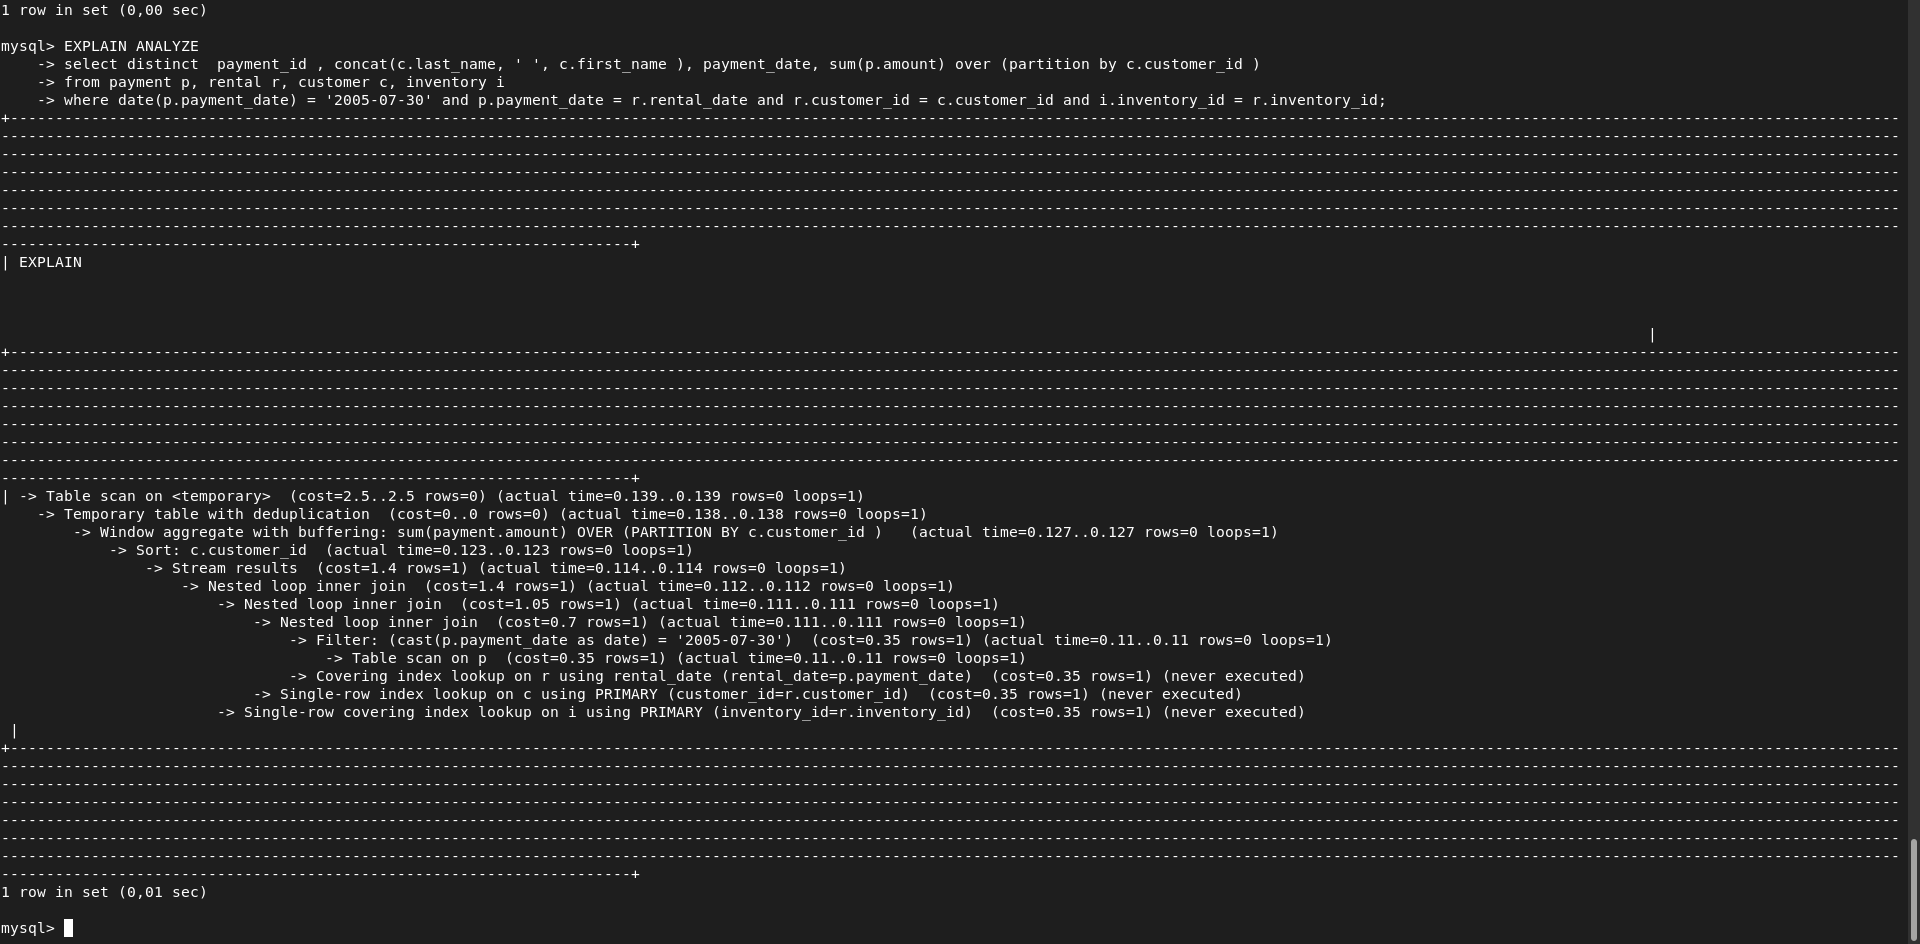
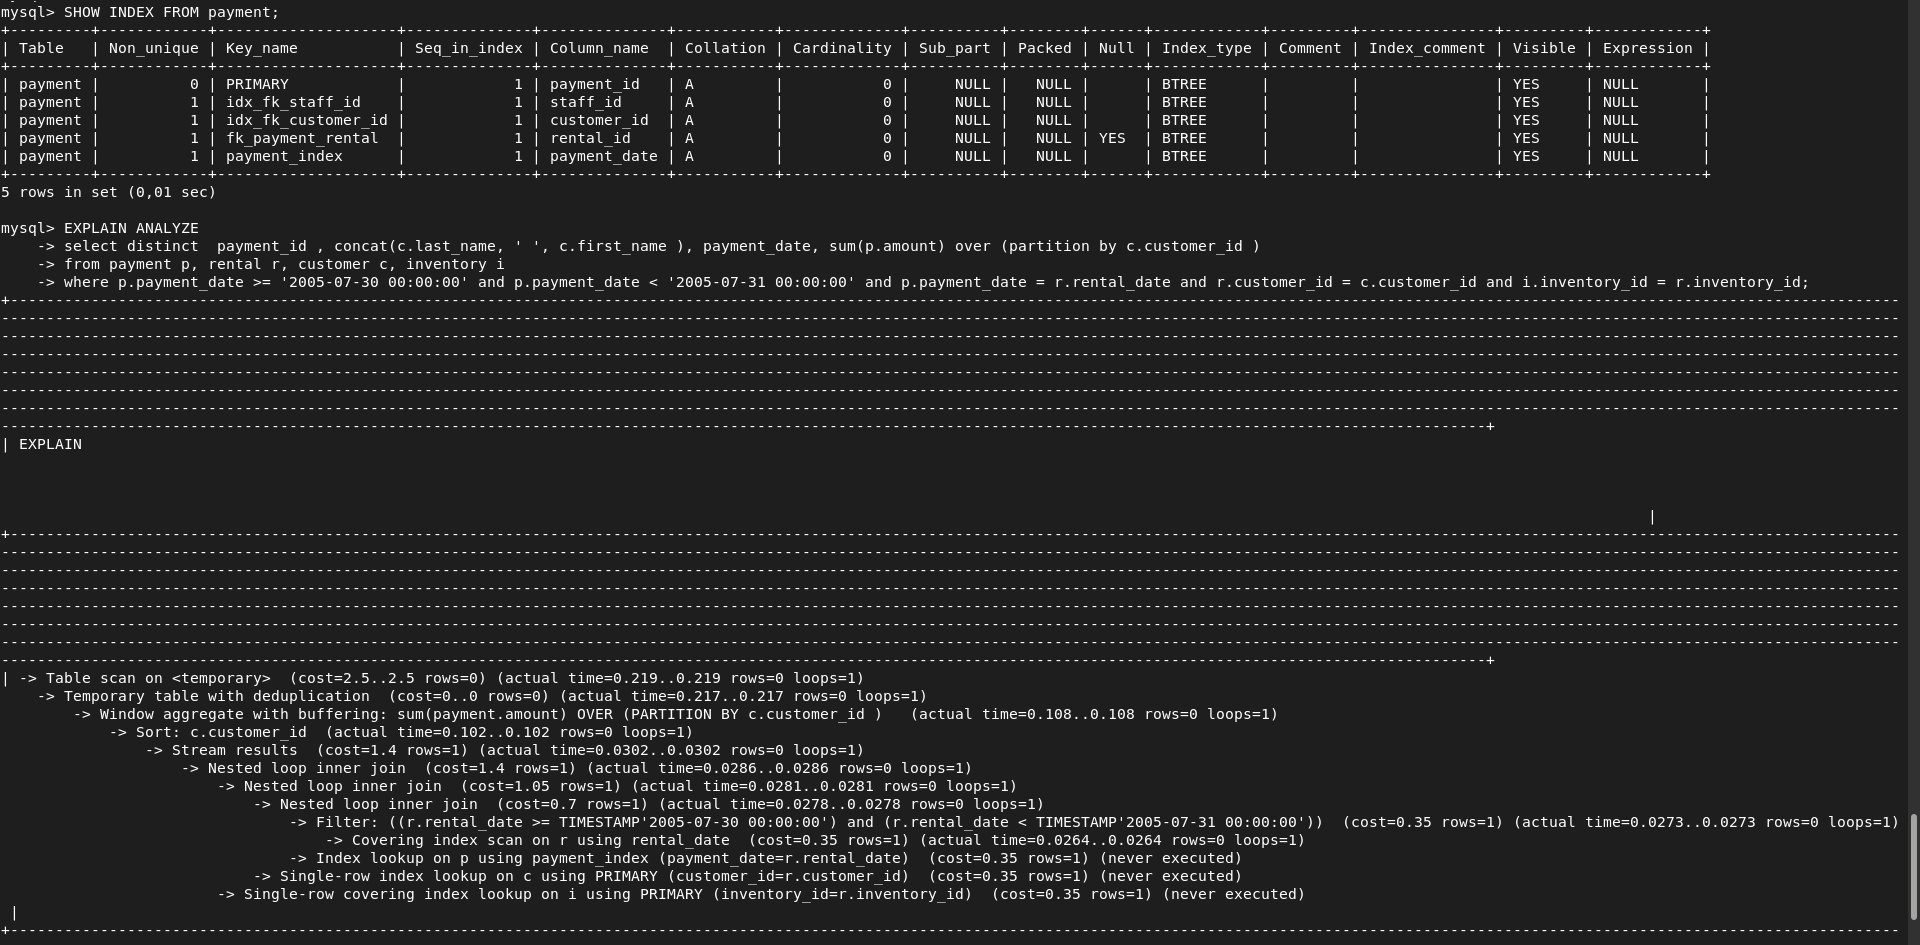
Задание 12.5.2

diff --git a/12-05.md b/12-05.md
@@ -40,9 +40,10 @@ where date(p.payment_date) = '2005-07-30' and p.payment_date = r.rental_date and
 - из запроса необходимо убрать f.title и film f, а также добавить индекс payment p.
 
 ```sql
-select distinct payment_id, concat(c.last_name, ' ', c.first_name), payment_date, sum(p.amount) over (partition by c.customer_id) 
+EXPLAIN ANALYZE
+select distinct  payment_id , concat(c.last_name, ' ', c.first_name ), payment_date, sum(p.amount) over (partition by c.customer_id ) 
 from payment p, rental r, customer c, inventory i
-where date(p.payment_date) = '2005-07-30' and p.payment_date = r.rental_date and r.customer_id = c.customer_id and i.inventory_id = r.inventory_id;
+where p.payment_date >= '2005-07-30 00:00:00' and p.payment_date < '2005-07-31 00:00:00' and p.payment_date = r.rental_date and r.customer_id = c.customer_id and i.inventory_id = r.inventory_id;
 ```
 
 ---
